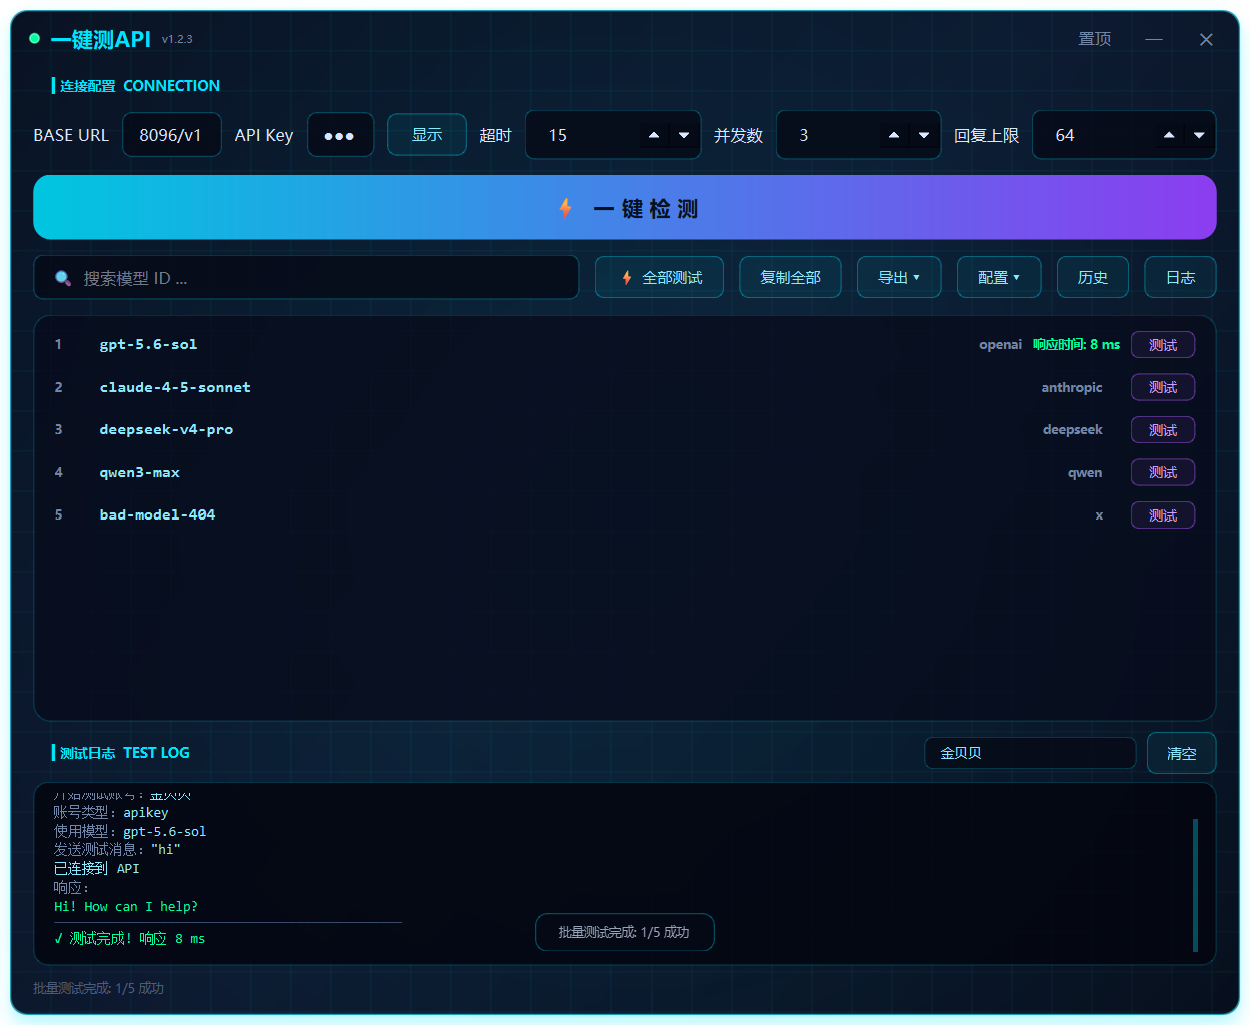
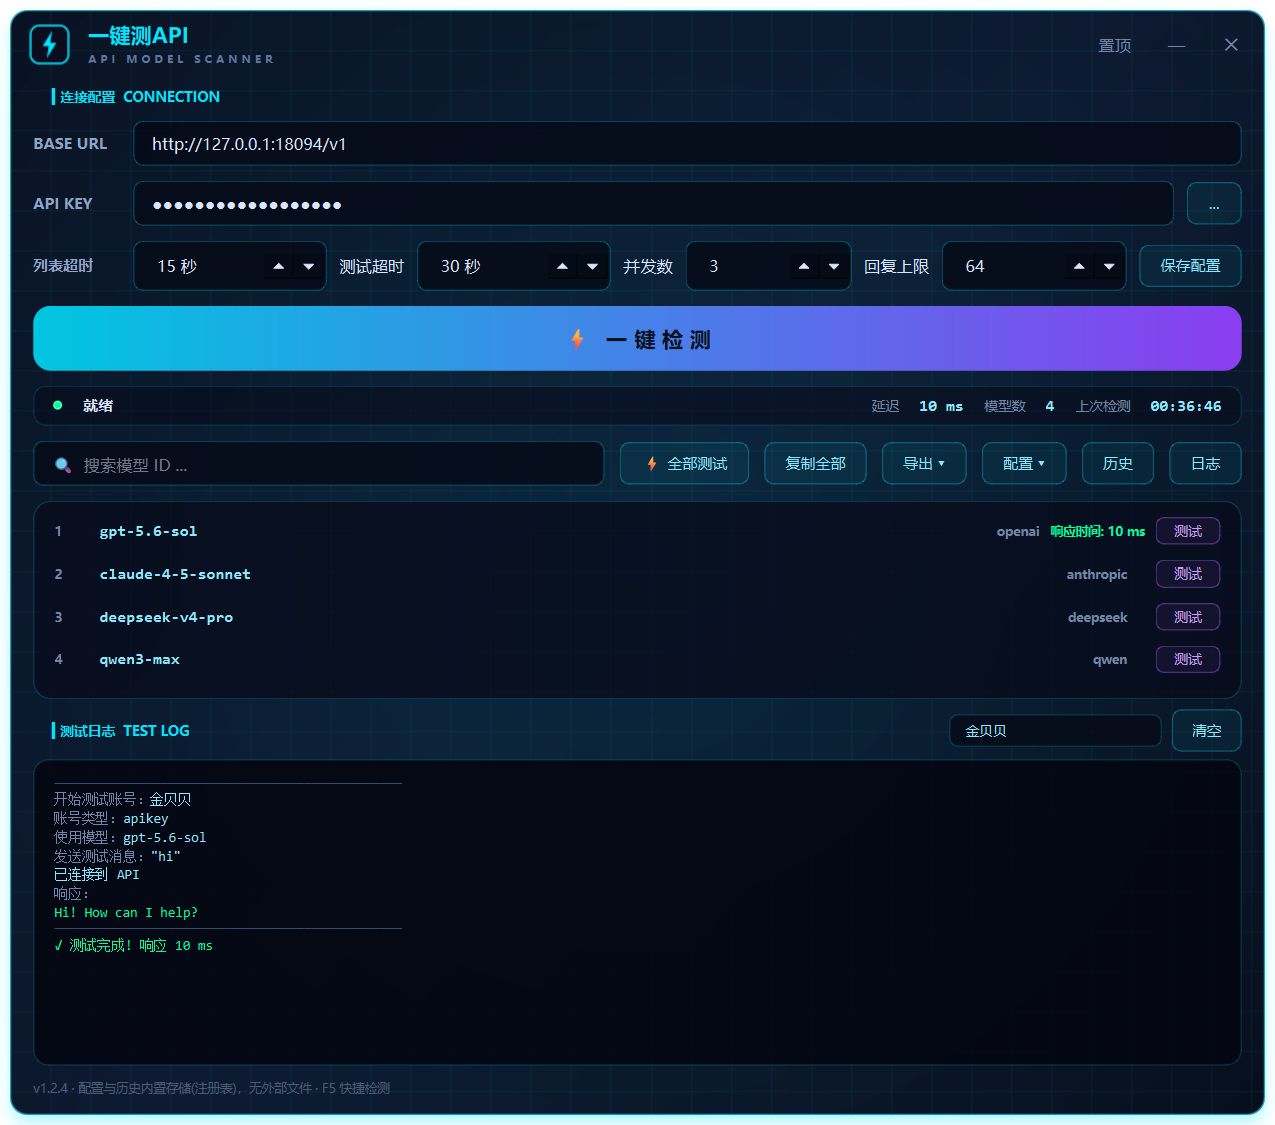
fix(ui): 恢复丢失的上半区元素，压缩下半区给日志面板 (v1.2.4)
从 exe 还原源码时按结构骨架重建，丢失了以下视觉元素，本次恢复：
- 标题栏：应用图标（36px 矢量绘制）+ 'API MODEL SCANNER' 副标题
  （原为纯文字 'v1.2.1'，无图标）
- 连接配置区由单行拥挤布局改为三行：
  第1行 BASE URL、第2行 API KEY（含显隐按钮）、
  第3行 列表超时 / 测试超时 / 并发数 / 回复上限 + 『保存配置』按钮
- 新增状态条：● 就绪 · 延迟 · 模型数 · 上次检测（4 个指标）
- 底部改为固定说明：版本 · 内置存储说明 · F5 快捷检测

布局：
- 窗口 1000x820 → 1020x900
- QSplitter 比例由 3:2 改为 1:3（模型列表压缩到 36%，日志占 64%）
- 模型列表最小高度 90，可被压缩；列表可滚动不影响使用
- 状态灯由标题栏移入状态条；底部行不再承担状态显示

配置：
- test_timeout 独立输入框接入配置读写（此前只有配置项无控件）
- save_config / _save_now / _apply_cfg_to_ui 同步纳入 test_timeout

修复：
- 单体测试结束时误报『批量测试完成 N/M 成功』，现单测只复位状态
- QSS 写入过程中产生的乱码颜色值已清除，并新增 QSS 合法性自检

验证：
- 工具栏 6 按钮几何复核：无重叠、无溢出，搜索框仍余 457px
- QSS 校验：颜色值合法、花括号配平 74/74、Qt 解析无告警
- 两套测试 22/22 + 52/52 全通过

diff --git a/main.py b/main.py
@@ -24,7 +24,7 @@ from PySide6.QtWidgets import (QAbstractItemView, QApplication, QDialog,
                                QTextEdit, QToolButton, QVBoxLayout, QWidget)
 
 APP_NAME = '一键测API'
-APP_VERSION = '1.2.3'
+APP_VERSION = '1.2.4'
 C_CYAN = '#00e5ff'
 C_PURPLE = '#a855f7'
 C_GREEN = '#00ff9d'
@@ -402,6 +402,15 @@ QFrame#errorBanner {
 QLabel { background: transparent; }
 QLabel#h1 { color: #00e5ff; font-size: 17px; font-weight: bold; }
 QLabel#sub { color: #7286a8; font-size: 9px; }
+QLabel#subBrand {
+    color: #5d78a0;
+    font-size: 9px;
+    letter-spacing: 3px;
+    font-weight: bold;
+}
+QLabel#appIcon { background: transparent; }
+QLabel#formLabel { color: #8fa5c8; font-size: 12px; font-weight: bold; }
+QLabel#statState { color: #d9e6ff; font-size: 12px; font-weight: bold; }
 QLabel#caption { color: #7286a8; font-size: 10px; font-weight: bold; }
 QLabel#statName { color: #7286a8; font-size: 11px; }
 QLabel#statValue { color: #8be9ff; font-size: 13px; font-weight: bold; font-family: "Consolas", "Cascadia Mono", monospace; }
@@ -409,6 +418,12 @@ QLabel#errorTitle { color: #ff7d9c; font-size: 12px; font-weight: bold; }
 QLabel#errorDetail { color: #d9a3b0; font-size: 11px; font-family: "Consolas", "Cascadia Mono", monospace; }
 QLabel#groupHeader { color: #00e5ff; font-size: 11px; font-weight: bold; padding-left: 12px; }
 QLabel#footer { color: #4c5b78; font-size: 10px; }
+
+QFrame#statBar {
+    background-color: rgba(7, 11, 26, 150);
+    border: 1px solid rgba(0, 229, 255, 35);
+    border-radius: 10px;
+}
 
 QLineEdit, QSpinBox {
     background-color: rgba(5, 9, 22, 215);
@@ -884,7 +899,7 @@ class WindowFrame(QFrame):
 
 
 class TitleBar(QWidget):
-    """Custom frameless title bar with pin / minimize / close."""
+    """Custom frameless title bar: app icon + name/brand + pin / min / close."""
 
     def __init__(self, parent=None, title=APP_NAME):
         super().__init__(parent)
@@ -892,13 +907,23 @@ class TitleBar(QWidget):
         self._drag = None
         lay = QHBoxLayout(self)
         lay.setContentsMargins(14, 8, 10, 8)
-        lay.setSpacing(8)
+        lay.setSpacing(10)
 
-        self.dot = StatusDot(self)
+        self.icon = QLabel(self)
+        self.icon.setObjectName("appIcon")
+        self.icon.setPixmap(make_app_pixmap(34))
+        self.icon.setFixedSize(38, 38)
+
         self.title = QLabel(title)
         self.title.setObjectName("h1")
-        self.sub = QLabel("v%s" % APP_VERSION)
-        self.sub.setObjectName("sub")
+        self.sub = QLabel("API MODEL SCANNER")
+        self.sub.setObjectName("subBrand")
+
+        brand = QVBoxLayout()
+        brand.setContentsMargins(0, 0, 0, 0)
+        brand.setSpacing(1)
+        brand.addWidget(self.title)
+        brand.addWidget(self.sub)
 
         self.pin = QToolButton(self)
         self.pin.setObjectName("titleBtn")
@@ -922,9 +947,8 @@ class TitleBar(QWidget):
         if self._win is not None:
             self.btn_close.clicked.connect(self._win.close)
 
-        lay.addWidget(self.dot)
-        lay.addWidget(self.title)
-        lay.addWidget(self.sub)
+        lay.addWidget(self.icon)
+        lay.addLayout(brand)
         lay.addStretch(1)
         lay.addWidget(self.pin)
         lay.addWidget(self.btn_min)
@@ -1062,8 +1086,8 @@ class MainWindow(QMainWindow):
         self.setWindowTitle(APP_NAME)
         self.setWindowFlags(Qt.FramelessWindowHint | Qt.Window)
         self.setAttribute(Qt.WA_TranslucentBackground, True)
-        self.resize(1000, 820)
-        self.setMinimumSize(780, 620)
+        self.resize(1020, 900)
+        self.setMinimumSize(800, 660)
 
         self.cfg = load_config()
         self.models = []
@@ -1103,44 +1127,112 @@ class MainWindow(QMainWindow):
         head.setObjectName("groupHeader")
         bl.addWidget(head)
 
-        form = QHBoxLayout()
-        form.setSpacing(10)
+        LBL_W = 70   # 表单标签统一宽度，保证左侧对齐
+
+        def _lbl(text):
+            l = QLabel(text)
+            l.setObjectName("formLabel")
+            l.setFixedWidth(LBL_W)
+            return l
+
+        # ---- 第 1 行：BASE URL ----
         self.ed_url = QLineEdit(self.cfg.get("base_url", ""))
         self.ed_url.setPlaceholderText("http://localhost:8082/v1")
+        r1 = QHBoxLayout()
+        r1.setSpacing(10)
+        r1.addWidget(_lbl("BASE URL"))
+        r1.addWidget(self.ed_url, 1)
+        bl.addLayout(r1)
+
+        # ---- 第 2 行：API KEY ----
         self.ed_key = QLineEdit(self.cfg.get("api_key", ""))
         self.ed_key.setPlaceholderText("sk-... (模型测试必须填写有效 Key)")
         self.ed_key.setEchoMode(QLineEdit.Password)
-        self.btn_eye = QPushButton("显示")
+        self.btn_eye = QPushButton("...")
         self.btn_eye.setObjectName("ghostBtn")
-        self.btn_eye.setFixedWidth(64)
+        self.btn_eye.setFixedWidth(44)
+        self.btn_eye.setCursor(Qt.PointingHandCursor)
+        self.btn_eye.setToolTip("显示 / 隐藏 API Key")
         self.btn_eye.clicked.connect(self._toggle_key)
+        r2 = QHBoxLayout()
+        r2.setSpacing(10)
+        r2.addWidget(_lbl("API KEY"))
+        r2.addWidget(self.ed_key, 1)
+        r2.addWidget(self.btn_eye)
+        bl.addLayout(r2)
+
+        # ---- 第 3 行：超时 / 并发 / 回复上限 / 保存 ----
         self.sp_timeout = QSpinBox()
         self.sp_timeout.setRange(1, 600)
         self.sp_timeout.setValue(int(self.cfg.get("timeout", 15)))
+        self.sp_timeout.setSuffix(" 秒")
+        self.sp_timeout.setToolTip("拉取模型列表的请求超时")
+
+        self.sp_ttimeout = QSpinBox()
+        self.sp_ttimeout.setRange(1, 600)
+        self.sp_ttimeout.setValue(int(self.cfg.get("test_timeout", 30)))
+        self.sp_ttimeout.setSuffix(" 秒")
+        self.sp_ttimeout.setToolTip("单个模型测试请求的超时")
+
         self.sp_conf = QSpinBox()
         self.sp_conf.setRange(1, 32)
         self.sp_conf.setValue(int(self.cfg.get("test_concurrency", 3)))
         self.sp_conf.setToolTip("批量测试时的最大并发请求数")
+
         self.sp_maxtok = QSpinBox()
         self.sp_maxtok.setRange(1, 8192)
         self.sp_maxtok.setValue(int(self.cfg.get("max_tokens", 64)))
         self.sp_maxtok.setToolTip("测试请求的 max_tokens：设大一点才能看出模型是否完整回话")
-        form.addWidget(QLabel("BASE URL"))
-        form.addWidget(self.ed_url, 3)
-        form.addWidget(QLabel("API Key"))
-        form.addWidget(self.ed_key, 2)
-        form.addWidget(self.btn_eye)
-        form.addWidget(QLabel("超时"))
-        form.addWidget(self.sp_timeout)
-        form.addWidget(QLabel("并发数"))
-        form.addWidget(self.sp_conf)
-        form.addWidget(QLabel("回复上限"))
-        form.addWidget(self.sp_maxtok)
-        bl.addLayout(form)
+
+        self.btn_save = QPushButton("保存配置")
+        self.btn_save.setObjectName("ghostBtn")
+        self.btn_save.setCursor(Qt.PointingHandCursor)
+        self.btn_save.clicked.connect(self.save_config)
+
+        r3 = QHBoxLayout()
+        r3.setSpacing(10)
+        r3.addWidget(_lbl("列表超时"))
+        r3.addWidget(self.sp_timeout)
+        r3.addWidget(QLabel("测试超时"))
+        r3.addWidget(self.sp_ttimeout)
+        r3.addWidget(QLabel("并发数"))
+        r3.addWidget(self.sp_conf)
+        r3.addWidget(QLabel("回复上限"))
+        r3.addWidget(self.sp_maxtok)
+        r3.addStretch(1)
+        r3.addWidget(self.btn_save)
+        bl.addLayout(r3)
 
         self.btn_detect = DetectButton("⚡  一 键 检 测")
         self.btn_detect.clicked.connect(self.start_detect)
         bl.addWidget(self.btn_detect)
+
+        # ---- 状态条：● 就绪 · 延迟 · 模型数 · 上次检测 ----
+        self.statbar = QFrame()
+        self.statbar.setObjectName("statBar")
+        sb = QHBoxLayout(self.statbar)
+        sb.setContentsMargins(14, 7, 14, 7)
+        sb.setSpacing(16)
+        self.stat_dot = StatusDot(self.statbar, 9)
+        self.stat_state = QLabel("就绪")
+        self.stat_state.setObjectName("statState")
+        sb.addWidget(self.stat_dot)
+        sb.addWidget(self.stat_state)
+        sb.addStretch(1)
+
+        def _metric(name):
+            k = QLabel(name)
+            k.setObjectName("statName")
+            v = QLabel("--")
+            v.setObjectName("statValue")
+            sb.addWidget(k)
+            sb.addWidget(v)
+            return v
+
+        self.stat_latency = _metric("延迟")
+        self.stat_models = _metric("模型数")
+        self.stat_last = _metric("上次检测")
+        bl.addWidget(self.statbar)
 
         bar = QHBoxLayout()
         self.ed_search = QLineEdit()
@@ -1180,6 +1272,7 @@ class MainWindow(QMainWindow):
         self.list = QListWidget()
         self.list.setObjectName("modelList")
         self.list.setSelectionMode(QAbstractItemView.SingleSelection)
+        self.list.setMinimumHeight(90)          # 允许被压缩，把空间让给日志
 
         self.logpanel = LogPanel(self)
         self.logpanel.ed_alias.setText(self.cfg.get("account_alias", "") or "")
@@ -1192,12 +1285,14 @@ class MainWindow(QMainWindow):
         self.split.setChildrenCollapsible(False)
         self.split.addWidget(self.list)
         self.split.addWidget(self.logpanel)
-        self.split.setStretchFactor(0, 3)
-        self.split.setStretchFactor(1, 2)
-        self.split.setSizes([400, 230])
+        # 模型列表可滚动，不需要太高；下半区域主要留给日志
+        self.split.setStretchFactor(0, 1)
+        self.split.setStretchFactor(1, 3)
+        self.split.setSizes([200, 360])
         bl.addWidget(self.split, 1)
 
-        self.status = QLabel("就绪")
+        self.status = QLabel(
+            "v%s · 配置与历史内置存储(注册表)，无外部文件 · F5 快捷检测" % APP_VERSION)
         self.status.setObjectName("footer")
         bl.addWidget(self.status)
 
@@ -1237,15 +1332,16 @@ class MainWindow(QMainWindow):
     def _toggle_key(self):
         if self.ed_key.echoMode() == QLineEdit.Password:
             self.ed_key.setEchoMode(QLineEdit.Normal)
-            self.btn_eye.setText("隐藏")
+            self.btn_eye.setToolTip("隐藏 API Key")
         else:
             self.ed_key.setEchoMode(QLineEdit.Password)
-            self.btn_eye.setText("显示")
+            self.btn_eye.setToolTip("显示 API Key")
 
     def save_config(self):
         self.cfg["base_url"] = self.ed_url.text().strip()
         self.cfg["api_key"] = self.ed_key.text().strip()
         self.cfg["timeout"] = int(self.sp_timeout.value())
+        self.cfg["test_timeout"] = int(self.sp_ttimeout.value())
         self.cfg["test_concurrency"] = int(self.sp_conf.value())
         self.cfg["always_on_top"] = bool(self.titlebar.pin.isChecked())
         self.cfg["account_alias"] = self.logpanel.ed_alias.text().strip()
@@ -1398,6 +1494,7 @@ class MainWindow(QMainWindow):
         self.ed_url.setText(str(self.cfg.get("base_url", "")))
         self.ed_key.setText(str(self.cfg.get("api_key", "")))
         self.sp_timeout.setValue(int(self.cfg.get("timeout", 15)))
+        self.sp_ttimeout.setValue(int(self.cfg.get("test_timeout", 30)))
         self.sp_conf.setValue(int(self.cfg.get("test_concurrency", 3)))
         self.sp_maxtok.setValue(int(self.cfg.get("max_tokens", 64)))
         self.logpanel.ed_alias.setText(str(self.cfg.get("account_alias", "") or ""))
@@ -1419,7 +1516,7 @@ class MainWindow(QMainWindow):
             return
         self._save_now()
         self._set_busy(True)
-        self.titlebar.dot.set_status("busy")
+        self.stat_dot.set_status("busy")
         self._set_status("正在检测")
         self.btn_detect.setText("检 测 中")
         self.list.clear()
@@ -1442,6 +1539,7 @@ class MainWindow(QMainWindow):
         self.cfg["base_url"] = self.ed_url.text().strip()
         self.cfg["api_key"] = self.ed_key.text().strip()
         self.cfg["timeout"] = int(self.sp_timeout.value())
+        self.cfg["test_timeout"] = int(self.sp_ttimeout.value())
         self.cfg["test_concurrency"] = int(self.sp_conf.value())
         self.cfg["account_alias"] = self.logpanel.ed_alias.text().strip()
         self.cfg["max_tokens"] = int(self.sp_maxtok.value())
@@ -1464,18 +1562,22 @@ class MainWindow(QMainWindow):
         self.btn_detect.setText("检 测 中" + "." * self._busy_n)
 
     def _set_status(self, text):
-        self.status.setText(text)
+        """更新状态条左侧文字（底部那行是固定说明，不承担状态显示）。"""
+        self.stat_state.setText(text)
 
     def _on_success(self, models, ms):
         self.models = models
         self._results = {}
-        self.titlebar.dot.set_status("ok")
-        self._set_status("检测成功 · %d 个模型 · %.0f ms" % (len(models), ms))
+        self.stat_dot.set_status("ok")
+        self._set_status("检测成功")
+        self.stat_latency.setText("%.0f ms" % ms)
+        self.stat_models.setText(str(len(models)))
+        self.stat_last.setText(datetime.now().strftime("%H:%M:%S"))
         self._populate_list()
         self._record_history(True, len(models), ms)
 
     def _on_failure(self, tag, detail):
-        self.titlebar.dot.set_status("error")
+        self.stat_dot.set_status("error")
         self._set_status("检测失败: " + str(tag))
         self.toast("检测失败: %s" % tag)
         self._placeholder()
@@ -1540,7 +1642,7 @@ class MainWindow(QMainWindow):
             self.ed_url.text().strip(),
             self.ed_key.text().strip(),
             model_id,
-            int(self.cfg.get("test_timeout", 30)),
+            int(self.sp_ttimeout.value()),
             int(self.sp_maxtok.value()),
         )
         w.progress.connect(self._on_test_progress)
@@ -1584,6 +1686,7 @@ class MainWindow(QMainWindow):
         row = self._rows.get(model_id)
         if row is not None:
             row.set_result(ms)
+        self.stat_latency.setText("%.0f ms" % ms)
         if self._log_multi:
             self.logpanel.line("  ✓ %s  ·  %.0f ms" % (model_id, ms), "r")
         else:
@@ -1609,12 +1712,14 @@ class MainWindow(QMainWindow):
         if self._pending:
             self._pump_test_queue()
         elif self._active == 0:
+            if not self._log_multi:
+                self._set_status("就绪")   # 单个测试：不报「批量」汇总，状态复位
+                return
             ok = sum(1 for v in self._results.values() if isinstance(v, float))
             msg = "批量测试完成: %d/%d 成功" % (ok, len(self.models))
-            if self._log_multi:
-                self.logpanel.sep()
-                self.logpanel.line("✓ " + msg if ok else "✗ " + msg,
-                                   "r" if ok else "e")
+            self.logpanel.sep()
+            self.logpanel.line("✓ " + msg if ok else "✗ " + msg,
+                               "r" if ok else "e")
             self._log_multi = False
             self.toast(msg)
             self._set_status(msg)

diff --git a/README.md b/README.md
@@ -12,17 +12,17 @@
 
 **免安装，双击即用**（无需 Python 环境）：
 
-👉 [**OneClickModelTest-v1.2.2-windows-x64.exe**](https://github.com/383827453-max/OneClickModelTest/releases/latest)
+👉 [**OneClickModelTest-v1.2.3-windows-x64.exe**](https://github.com/383827453-max/OneClickModelTest/releases/latest)
 
 | 项 | 值 |
 |---|---|
-| 大小 | 57,993,831 字节（约 55.3 MB） |
[1 lines of base64/hex data omitted]
+| 大小 | 57,999,069 字节（约 55.3 MB） |
[1 lines of base64/hex data omitted]
 | 平台 | Windows x64 |
 
 ```powershell
 # 下载后校验完整性
-Get-FileHash .\OneClickModelTest-v1.2.2-windows-x64.exe -Algorithm SHA256
+Get-FileHash .\OneClickModelTest-v1.2.3-windows-x64.exe -Algorithm SHA256
 ```
 
 > 资产名为英文是因为 GitHub Release 不支持非 ASCII 文件名；
